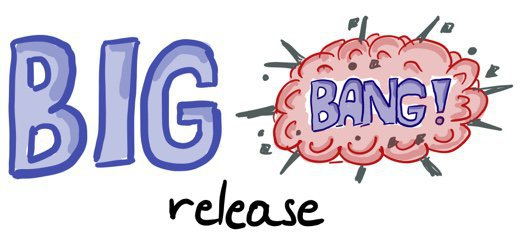
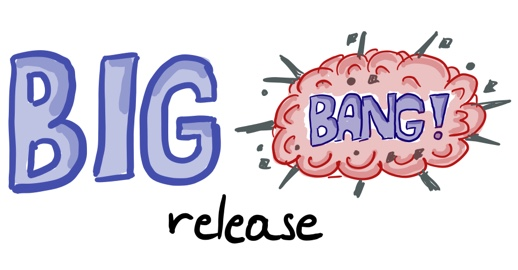
updated images

diff --git a/_posts/2018-04-08-big-bang-releases.md b/_posts/2018-04-08-big-bang-releases.md
@@ -3,7 +3,7 @@ layout: post
 title: Big bang releases
 description: When replacing legacy software, a common strategy is the so called big bang release. As we saw with Argenta, this can literally lead to a big bang. Is there any alternative?
 image: /public/images/big_bang_releases/websnippet.jpg
-title_image: /public/images/big_bang_releases/websnippet.jpg
+title_image: /public/images/big_bang_releases/title_big_bang_release.jpg
 ---
 
 When replacing legacy software, a common strategy is the so called big bang release. As we saw with Argenta, this can literally lead to a big bang. In a single weekend they replaced a core legacy system with a new one. It failed miserably, resulting in customers not being able to access their bank accounts. The release at Argenta was a very public failure, but they are not alone. A lot of companies have tried and failed replacing their legacy systems in a single go. Quite often multi-million euro projects don't even reach production. Years of development have been thrown in the trash attempting a replacement. Is there an alternative strategy?
